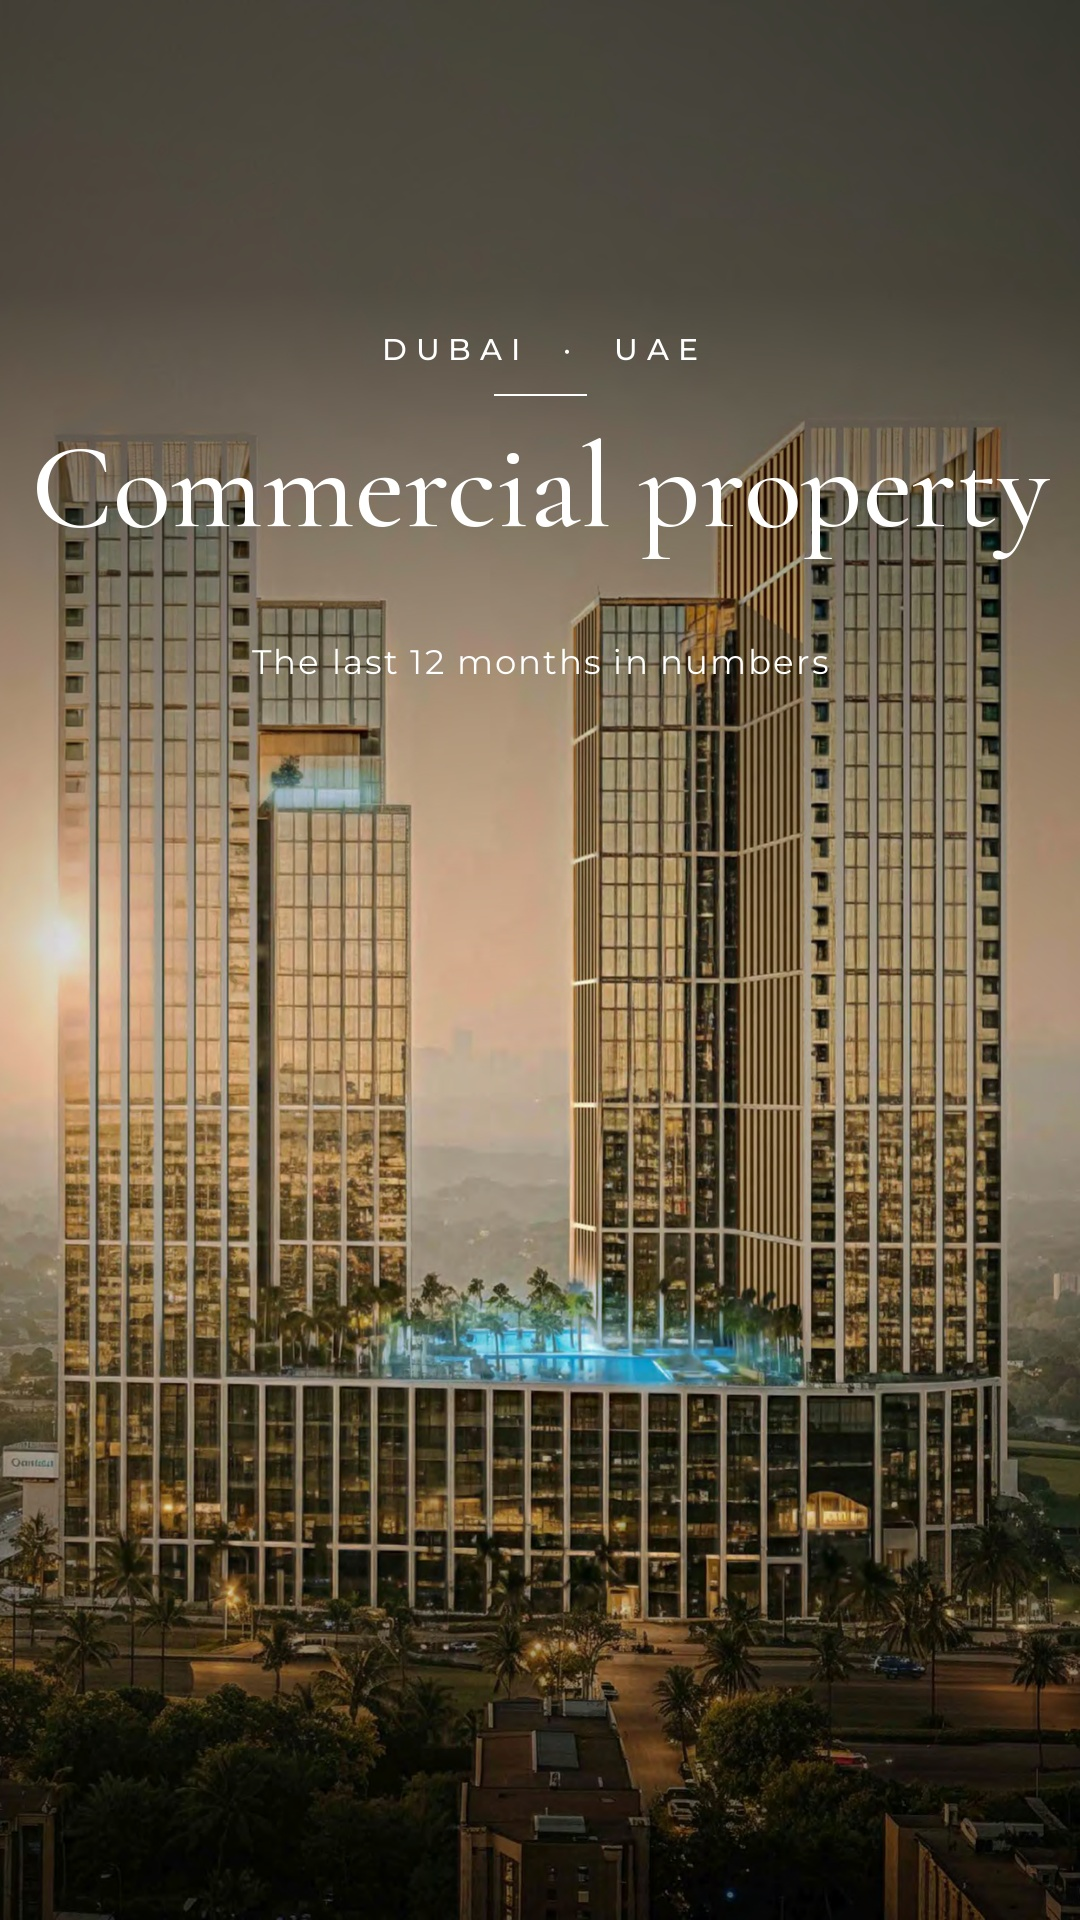
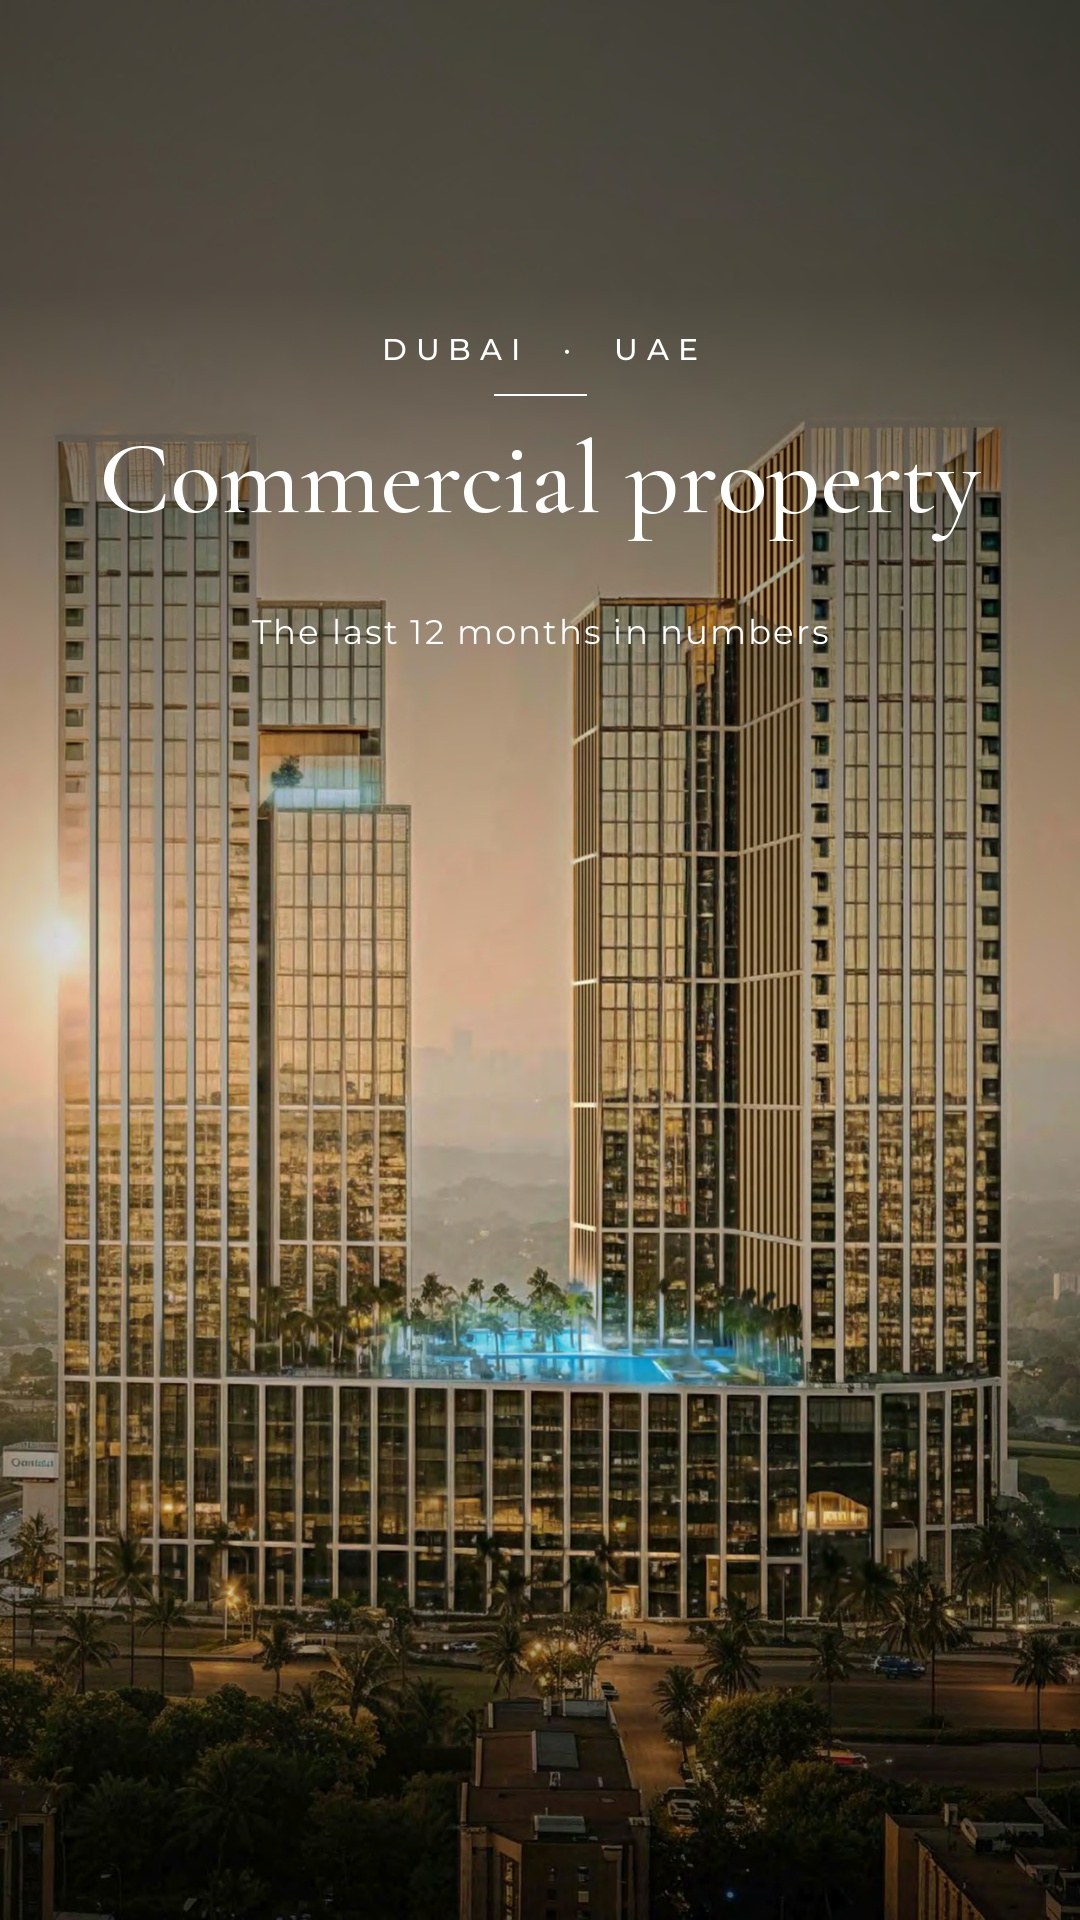
Cover H v2 title smaller

diff --git a/projects/2026-11-03_binghatti-ghost-visit/edl/make_covers.py b/projects/2026-11-03_binghatti-ghost-visit/edl/make_covers.py
@@ -95,5 +95,5 @@ cover("work/cov/hall.png", P + "E_v2.jpg", "centre", 840,
       "CormorantGaramond-500-Italic.ttf", 136, ["The residences"], "From AED 799,999", label="AL JADDAF  ·  DUBAI")
 # reel 6 is now commercial-wide (4 Nov)
 cover("work/cov/sunset.png", P + "H_v2.jpg", "top", 360,
-      "CormorantGaramond-500.ttf", 120, ["Commercial property"], "The last 12 months in numbers", label="DUBAI  ·  UAE")
+      "CormorantGaramond-500.ttf", 104, ["Commercial property"], "The last 12 months in numbers", label="DUBAI  ·  UAE")
 print("covers written")
